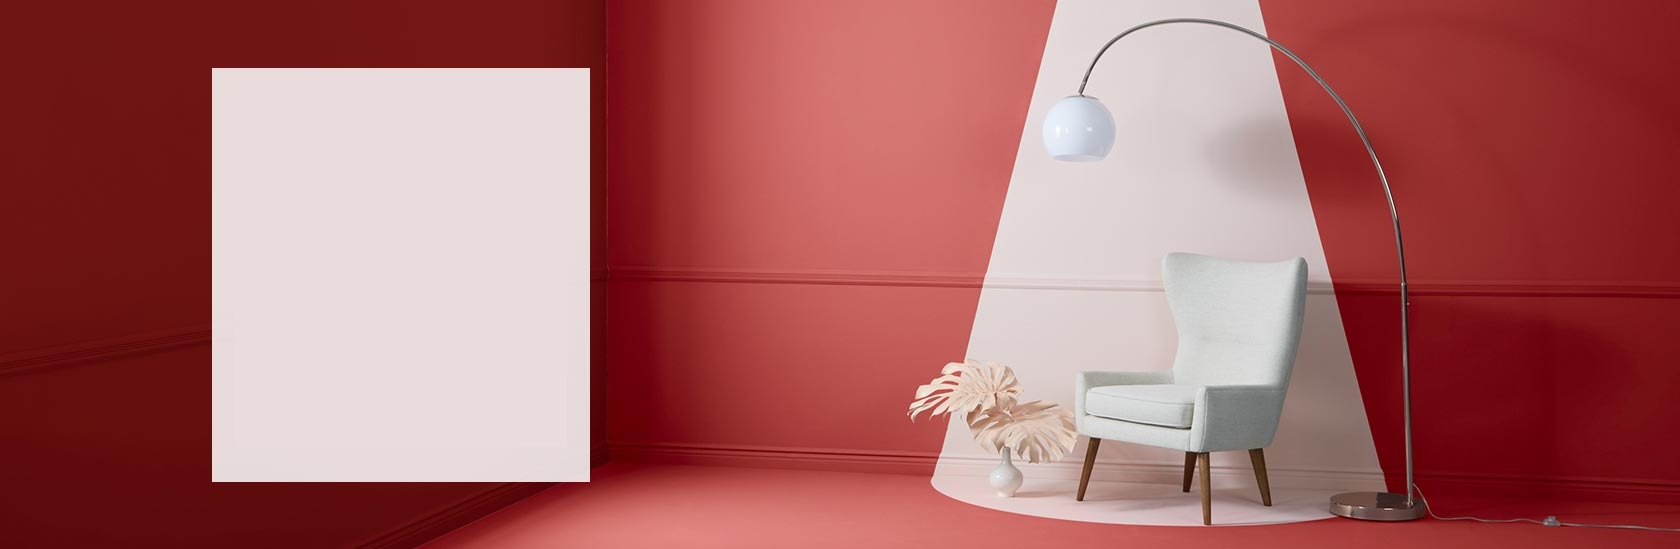
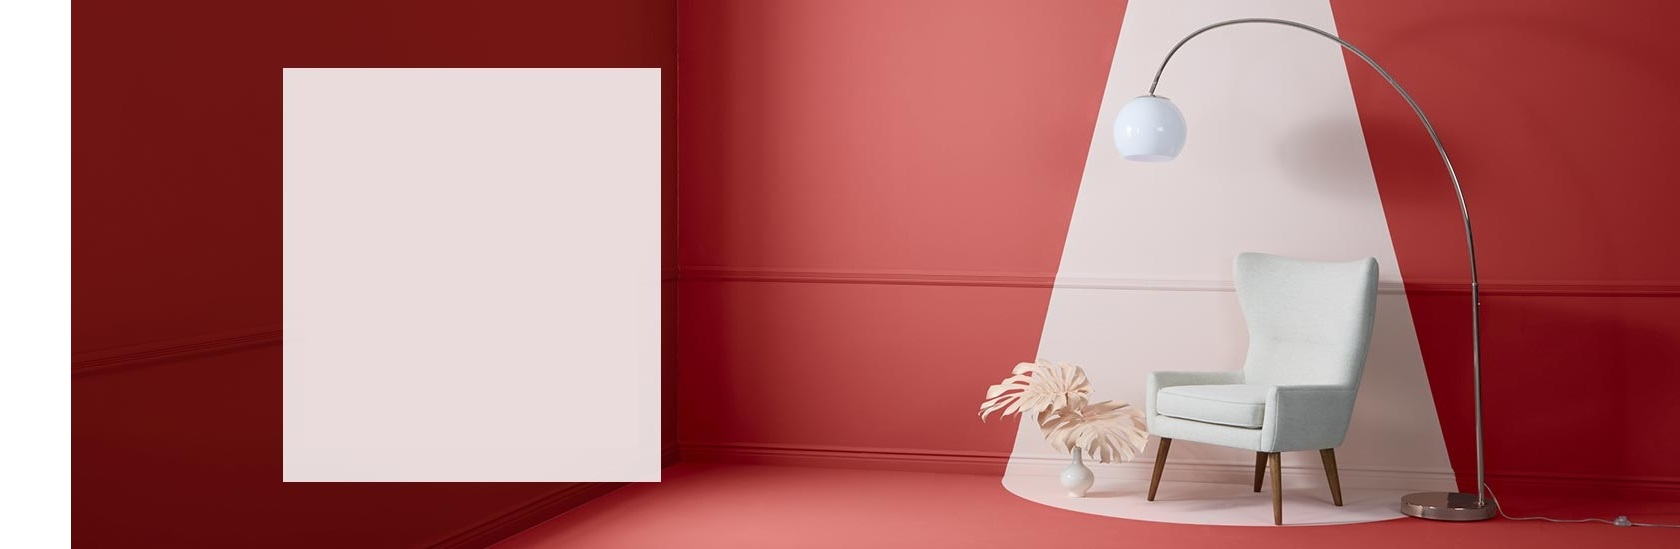
removed carousel

diff --git a/index.php b/index.php
@@ -5,9 +5,13 @@
 <!-- HEAD TAG HERE WITH THE NECESSARY CSS LINKS AND PLUGINS -->
 <?php include('Access/Header.php');?>
 
-  <link rel="stylesheet" href="https://maxcdn.bootstrapcdn.com/bootstrap/3.3.7/css/bootstrap.min.css">
-  <script src="https://ajax.googleapis.com/ajax/libs/jquery/3.3.1/jquery.min.js"></script>
-  <script src="https://maxcdn.bootstrapcdn.com/bootstrap/3.3.7/js/bootstrap.min.js"></script>
+<style type="text/css">
+.slick-slide {
+  text-align: center;
+  color: #419be0;
+  background: white;
+}
+</style>
 </head>
 
 <body>
@@ -17,7 +21,7 @@
 	<!-- NAVBAR HERE -->
 	<?php include('Access/Navbar.php');?>
 
-	<!-- <div class="main_slider" style="background-image:url(./images/indexbanner.jpg)">
+<!-- 	<div class="main_slider" style="background-image:url(./images/indexbanner.jpg)">
 		<div class="container fill_height">
 			<div class="row align-items-center fill_height">
 				<div class="col">
@@ -30,68 +34,22 @@
 			</div>
 		</div>
 	</div> -->
-
-	<div class="main_slider" style="margin-top: 150px;">
-		<div class="" style="">
-  <div id="myCarousel" style="height: 600px; margin-top: 50px;" class="carousel slide" data-ride="carousel">
-    <!-- Indicators -->
-    <ol class="carousel-indicators">
-      <li data-target="#myCarousel" data-slide-to="0" class="active"></li>
-      <li data-target="#myCarousel" data-slide-to="1"></li>
-      <li data-target="#myCarousel" data-slide-to="2"></li>
-    </ol>
-
-    <!-- Wrapper for slides -->
-    <div class="carousel-inner" style="height: 600px;">
-
-      <div class="item active">
-        <img src="./images/caro1.jpg" alt="Chicago" style="width:100%; resize: 50%;">
-        <div class="carousel-caption" style="bottom: 550px;">
-        	<div class="row text-center" style="left: 37%; opacity: 1">
-	        	<img src="./images/hero-image-2.png" style="max-height: 300px;">
-	        	<img src="./images/hero-image-3.png" style="margin-top: 30px; margin-left: -80px; max-height: 300px;">
-	        </div>
-          	<h1 style="color: black; margin-top: -50px; color: black; font-weight: bold;">Get the Mobile App Now</h1>
-          	<div style="margin-top: 10px;" class="red_button shop_now_button"><a href="#" style="text-decoration: none; color: white;">download here</a></div>
-        </div>
-       </div>
-
-      <div class="item">
-        <img src="./images/caro2.jpg" alt="New York" style="max-height: 700px; display: block; width: 100%;">
-        <div class="carousel-caption" style="bottom: 300px;">
-          <h6 style="color: #d42d2d;">Opening Collection 2018</h6>
-          <h1 style="color: black;">Get up to 20% Off New Arrivals</h1>
-          <div class="red_button shop_now_button"><a href="loginnew.php" style="text-decoration: none; color: white;">shop now</a></div>
-        </div>
-      </div>
-
-
-      <div class="item">
-        <img src="./images/caro3.jpg" alt="New York" style="max-height: 700px; display: block; width: 100%;">
-        <div class="carousel-caption" style="bottom: 300px;">
-          <h6 style="color: #d42d2d;">EXTRA CAROUSEL ITEM</h6>
-          <h1 style="color: black;">BLA BLAH BLAH</h1>
-          <div class="red_button shop_now_button"><a href="#" style="text-decoration: none; color: white;">button</a></div>
-        </div>
-      </div>
-    
-      </div>
-  
-    </div>
-
-    <!-- Left and right controls -->
-    <a class="left carousel-control" href="#myCarousel" data-slide="prev">
-      <span class="glyphicon glyphicon-chevron-left"></span>
-      <span class="sr-only">Previous</span>
-    </a>
-    <a class="right carousel-control" href="#myCarousel" data-slide="next">
-      <span class="glyphicon glyphicon-chevron-right"></span>
-      <span class="sr-only">Next</span>
-    </a>
-  </div>
-</div>
+	<div class="main_slider" style="background-image:url(./images/caro1.jpg)">
+		<div class="container fill_height">
+			<div class="row align-items-center fill_height text-center">
+				<div style="margin: 0px 200px 0px 200px;">
+					<div class="row text-center" style="left: 40%;">
+			        	<img src="./images/hero-image-2.png" style="max-height: 400px;">
+			        	<img src="./images/hero-image-3.png" style="margin-top: 30px; margin-left: -150px; max-height: 400px;">
+	        		</div>
+	        		<div class="text-center" style="margin-left: 150px;">
+			          	<h2 style="color: black; margin-top: -80px; color: #282828;">Get the Mobile App Now</h2>
+			          	<div style="margin-top: 10px;" class="red_button shop_now_button"><a href="#" style="text-decoration: none; color: white;">download here</a></div>
+			          </div>
+				</div>
+			</div>
+		</div>
 	</div>
-
 <!-- 	<div class="banner text-center">
 		<div class="search-container">
 		    <form action="/action_page.php">

diff --git a/Access/Carousel.php b/Access/Carousel.php
@@ -1,0 +1,64 @@
+<link rel="stylesheet" href="https://maxcdn.bootstrapcdn.com/bootstrap/3.3.7/css/bootstrap.min.css">
+  <script src="https://ajax.googleapis.com/ajax/libs/jquery/3.3.1/jquery.min.js"></script>
+  <script src="https://maxcdn.bootstrapcdn.com/bootstrap/3.3.7/js/bootstrap.min.js"></script>
+
+  <div class="main_slider" style="margin-top: 150px;">
+		<div class="" style="">
+  <div id="myCarousel" style="height: 600px; margin-top: 50px;" class="carousel slide" data-ride="carousel">
+    <!-- Indicators -->
+    <ol class="carousel-indicators">
+      <li data-target="#myCarousel" data-slide-to="0" class="active"></li>
+      <li data-target="#myCarousel" data-slide-to="1"></li>
+      <li data-target="#myCarousel" data-slide-to="2"></li>
+    </ol>
+
+    <!-- Wrapper for slides -->
+    <div class="carousel-inner" style="height: 600px;">
+
+      <div class="item active">
+        <img src="./images/caro1.jpg" alt="Chicago" style="width:100%; resize: 50%;">
+        <div class="carousel-caption" style="bottom: 550px;">
+        	<div class="row text-center" style="left: 37%; opacity: 1">
+	        	<img src="./images/hero-image-2.png" style="max-height: 300px;">
+	        	<img src="./images/hero-image-3.png" style="margin-top: 30px; margin-left: -80px; max-height: 300px;">
+	        </div>
+          	<h1 style="color: black; margin-top: -50px; color: black; font-weight: bold;">Get the Mobile App Now</h1>
+          	<div style="margin-top: 10px;" class="red_button shop_now_button"><a href="#" style="text-decoration: none; color: white;">download here</a></div>
+        </div>
+       </div>
+
+      <div class="item">
+        <img src="./images/caro2.jpg" alt="New York" style="max-height: 700px; display: block; width: 100%;">
+        <div class="carousel-caption" style="bottom: 300px;">
+          <h6 style="color: #d42d2d;">Opening Collection 2018</h6>
+          <h1 style="color: black;">Get up to 20% Off New Arrivals</h1>
+          <div class="red_button shop_now_button"><a href="loginnew.php" style="text-decoration: none; color: white;">shop now</a></div>
+        </div>
+      </div>
+
+
+      <div class="item">
+        <img src="./images/caro3.jpg" alt="New York" style="max-height: 700px; display: block; width: 100%;">
+        <div class="carousel-caption" style="bottom: 300px;">
+          <h6 style="color: #d42d2d;">EXTRA CAROUSEL ITEM</h6>
+          <h1 style="color: black;">BLA BLAH BLAH</h1>
+          <div class="red_button shop_now_button"><a href="#" style="text-decoration: none; color: white;">button</a></div>
+        </div>
+      </div>
+    
+      </div>
+  
+    </div>
+
+    <!-- Left and right controls -->
+    <a class="left carousel-control" href="#myCarousel" data-slide="prev">
+      <span class="glyphicon glyphicon-chevron-left"></span>
+      <span class="sr-only">Previous</span>
+    </a>
+    <a class="right carousel-control" href="#myCarousel" data-slide="next">
+      <span class="glyphicon glyphicon-chevron-right"></span>
+      <span class="sr-only">Next</span>
+    </a>
+  </div>
+</div>
+	</div>
